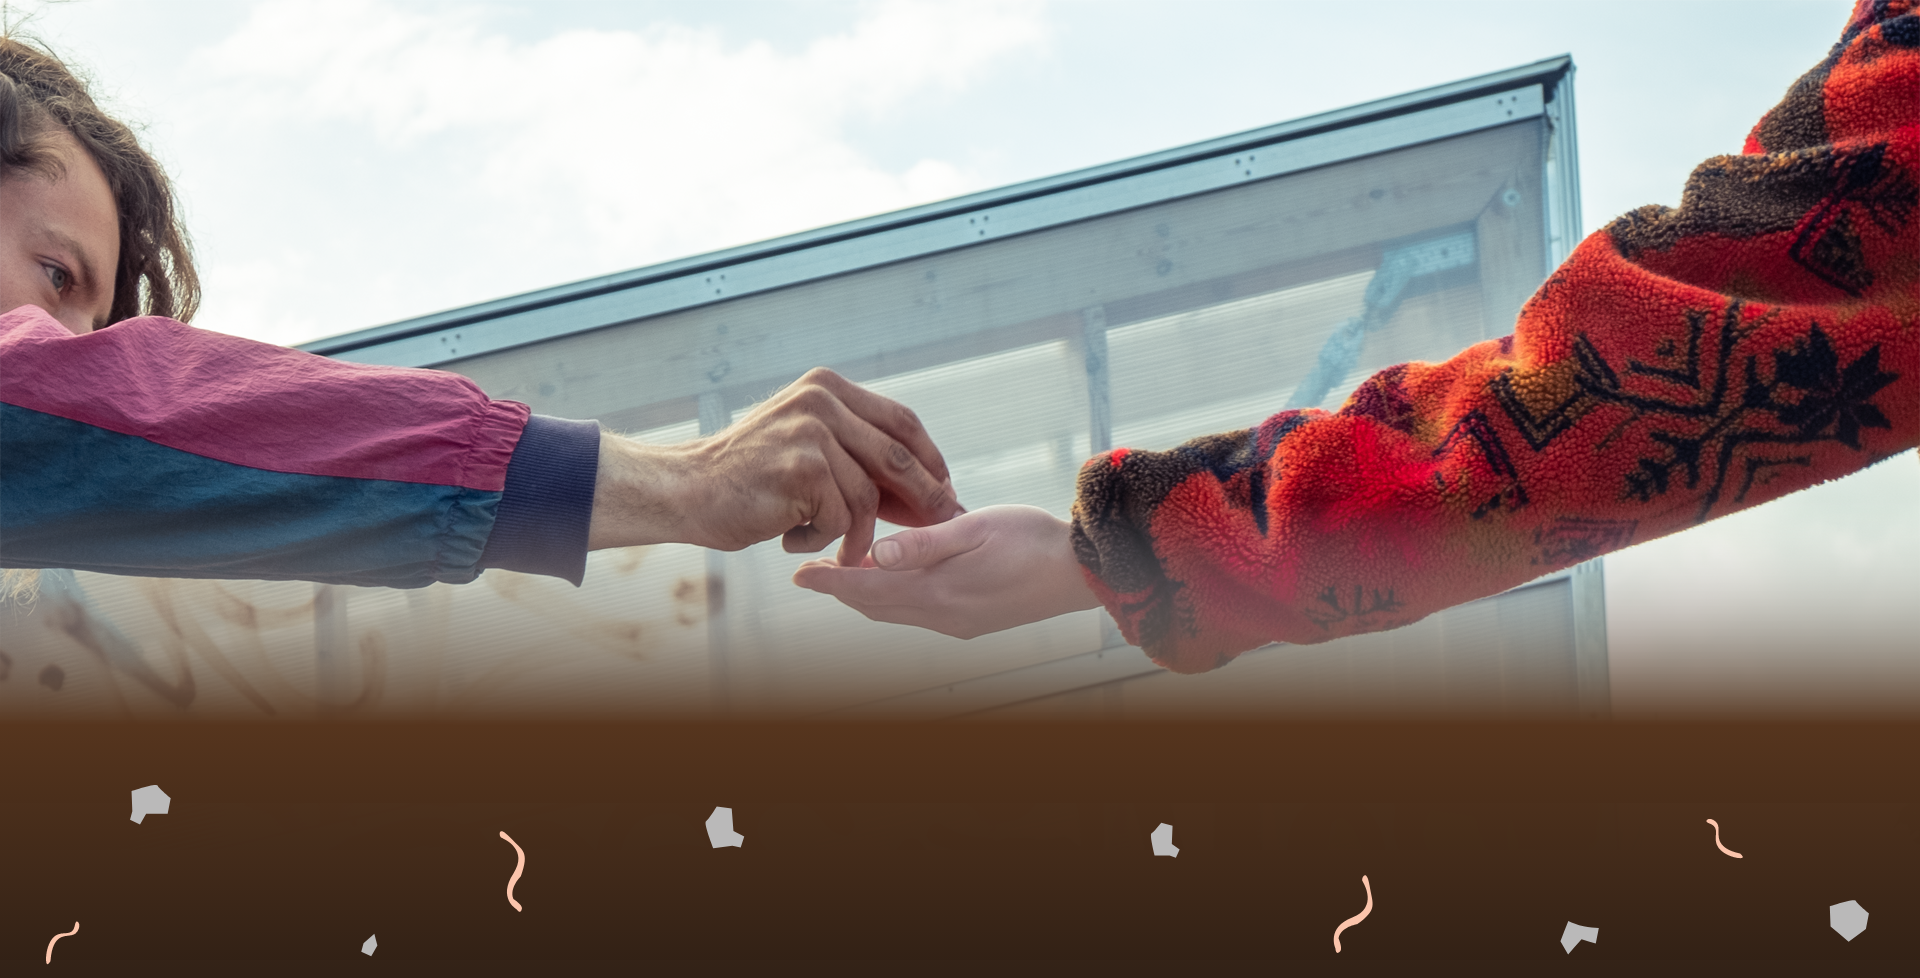
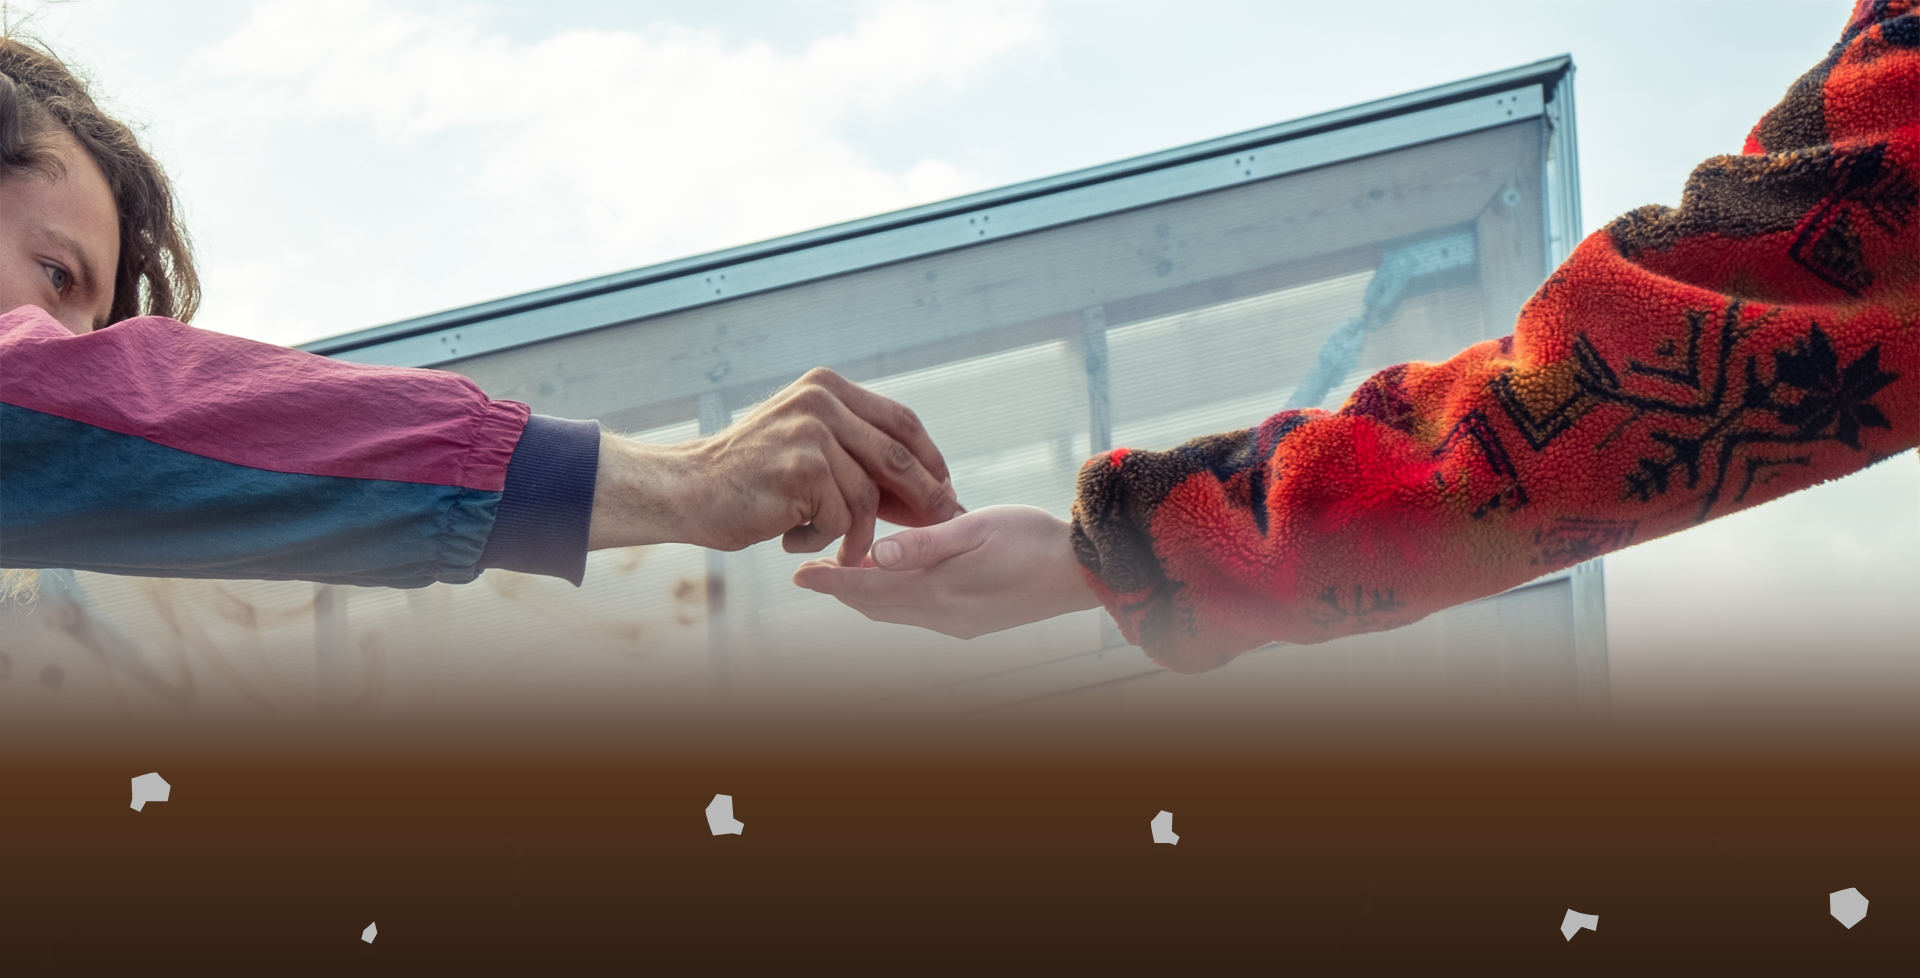
making footer somewhat responsive

diff --git a/style.css b/style.css
@@ -500,7 +500,7 @@ body {
   font-family: 'finalsix', sans-serif;
   font-weight: 300;
   font-style: normal;
-    font-size: 2em;
+    font-size: 1.8em;
     color: #56351E;
     padding-top: 3em;
     margin-left: 15%;
@@ -549,7 +549,7 @@ body {
     left: 0;
     z-index: 2;
     margin-left: 42%;
-    margin-bottom: 5rem;  
+    margin-bottom: 3rem;  
 }
 
 /* a so-me icon inserted using Font Awesome */
@@ -584,18 +584,107 @@ body {
 
 .fa-brands {
     padding: 20px;
-    font-size: 100px;
+    font-size: 4em;
     width: 100px;
     height: 4rem;
     text-align: center;
     text-decoration: none;
-    margin: 5px 2px;
 }
 
 .footer {
     left: 0;
     bottom: 0;
     width: 100%;
+}
+
+/* worms */
+.worm {
+    width: 4%;
+    height: auto;
+    z-index: 10;
+}
+/* making worms interactive when hovering */
+.worm:hover {
+    animation: shake 0.6s;
+}
+
+@keyframes shake {
+    0% {
+        transform: translate(1px, 1px) rotate(0deg);
+    }
+
+    10% {
+        transform: translate(-1px, -2px) rotate(-1deg);
+    }
+
+    20% {
+        transform: translate(-3px, 0px) rotate(1deg);
+    }
+
+    30% {
+        transform: translate(3px, 2px) rotate(0deg);
+    }
+
+    40% {
+        transform: translate(1px, -1px) rotate(1deg);
+    }
+
+    50% {
+        transform: translate(-1px, 2px) rotate(-1deg);
+    }
+
+    60% {
+        transform: translate(-3px, 1px) rotate(0deg);
+    }
+
+    70% {
+        transform: translate(3px, 1px) rotate(-1deg);
+    }
+
+    80% {
+        transform: translate(-1px, -1px) rotate(1deg);
+    }
+
+    90% {
+        transform: translate(1px, 2px) rotate(0deg);
+    }
+
+    100% {
+        transform: translate(1px, -2px) rotate(-1deg);
+    }
+}
+
+
+#worm1 {
+    position: absolute;
+    left: 10%;
+    transform: rotate(100deg);
+    margin-top: -5%;
+    margin-left: -4%;
+}
+
+#worm2 {
+    position: absolute;
+    left: 30%;
+    transform: rotate(40deg);
+    margin-top: -6%;
+    margin-left: -6%;
+}
+
+#worm3 {
+    position: absolute;
+    left: 90%;
+    transform: rotate(70deg);
+    margin-top: -5%;
+    margin-left: -22%;
+}
+
+#worm4 {
+    position: absolute;
+    left: 90%;
+    transform: rotate(40deg);
+    margin-top: -8%;
+    margin-left: -2%;
 }
 
 /* dot navigation bar */
@@ -743,25 +832,6 @@ body {
     bottom: -36px;
   }
   
-  @media only screen and (max-width: 600px) {
-    .gallery-grid {
-      grid-template-columns: 48% 48%;
-      grid-gap: 3rem 4%;
-    }
-  }
-  
-  @media only screen and (max-width: 880px) {
-    .gallery-item .gallery-triangle {
-      border-width: 0 0 60px 60px;
-    }
-    
-    .gallery-triangle::after {
-      font-size: 24px;
-      left: -24px;
-      bottom: -30px;
-    }
-  }
-  
   .popup-bg {
     background: rgba(0, 0, 0, 0.3);
     position: fixed;
@@ -823,16 +893,8 @@ body {
     font-size: 32px;
     line-height: 38px;
     cursor: pointer;
-  }
-  
-  @media only screen and (max-width: 600px) {
-    .popup-container {
-      top: 0;
-      left: 0;
-      right: 0;
-      bottom: 0;
-    }
-     
+  }    
+
     .popup-pic, .popup-pic-container {
       width: 55%;
     }
@@ -843,7 +905,6 @@ body {
         font-weight: 300;
         font-style: normal;
     }
-  }
   
   /*------*/
   
@@ -928,3 +989,67 @@ body {
   }
   
   /* PROJECT GALLERY END */
+
+
+ /* MEDIA QUERIES */
+ @media only screen and (max-width: 1300px) {
+    .footer_title {
+        font-size: 3rem;
+  }
+  .fa-brands {
+    font-size: 3.5em;
+  }
+    .icons_container {
+        margin-left: 40%;
+        margin-bottom: 1.8rem;
+    }
+}
+  @media only screen and (max-width: 880px) {
+    .gallery-item .gallery-triangle {
+      border-width: 0 0 60px 60px;
+    }
+    
+    .gallery-triangle::after {
+      font-size: 24px;
+      left: -24px;
+      bottom: -30px;
+    }
+
+    .footer_title {
+        font-size: 2.8rem;
+        left: 25%;
+    }
+    .fa-brands {
+        font-size: 3em;
+     }
+     .icons_container {
+        margin-left: 37%;
+        margin-bottom: 0.8rem;
+    }
+  }
+
+
+  @media only screen and (max-width: 600px) {
+    .footer_title {
+        font-size: 2.1rem;
+        left: 26%;
+    }
+    .gallery-grid {
+      grid-template-columns: 48% 48%;
+      grid-gap: 3rem 4%;
+    }
+    .popup-container {
+        top: 0;
+        left: 0;
+        right: 0;
+        bottom: 0;
+      }
+      .fa-brands {
+        font-size: 2.5em;
+     }
+     .icons_container {
+         margin-left: 33%;
+         margin-bottom: 0.5rem;
+     }
+
+  }

diff --git a/index.html b/index.html
@@ -8,7 +8,7 @@
     <link rel="stylesheet" href="style.css">
     <link rel="stylesheet" href="https://use.typekit.net/zvj3sro.css">
     <script src="https://kit.fontawesome.com/3910174d34.js" crossorigin="anonymous"></script>
-    <link rel="icon" href="/images/bee.png">
+    <link rel="icon" href="/images/insects/bee.png">
     <script src="script.js" defer></script>
     <title>Rewild Aarhus</title>
 </head>
@@ -80,11 +80,11 @@
 
     <section id="intersection-3" class="section-animation intersection">
     <!-- section explaining biodiversity and presenting the animation-scrolling infographics -->
-        <p class="copy">We have said “biodiversity” many times now but what does it even mean? <br>
+        <p class="copy">We have mentioned “biodiversity” many times now but what does it even mean? <br>
 
             To put it simply, the more species of insects, plants, animals, fungi or even bacteria there are in Aarhus; the more biodiverse it is. <br>
             <br>
-            Why do we need biodiversity? <br>
+            And why do we need biodiversity? <br>
             Biodiversity provides ecosystems that give us oxygen, clean air and water, pollination of plants, pest control, wastewater treatment and many ecosystem services.<br>
             All these are important in making our lives better. <br>
             <br>
@@ -100,7 +100,8 @@
 
         <!-- section with Rewild's projects -->
     <section id="intersection-4" class="section-projects intersection">
-        <p class="copy">With our projects and workshops for the citizens of Aarhus, we educate them to make the city greener. We have a great time with great people too!<br>
+        <p class="copy">With our projects and workshops, we educate people to make their gardens and the city greener. 
+            And we have a great time with great people!<br>
             <br>
             Did we plant a seed of curiosity? <br>
             Take closer look of our work through the project gallery.
@@ -442,7 +443,7 @@
 
     <footer id="intersection-5" class="intersection">
         <div class="footer_container">
-            <div class="footer_title">Reach out to us</div>
+                <div class="footer_title">Reach out to us</div>
             <img class="hands" src="images/footerimg.png" alt="reach_out">
             <!-- Linking SoMe links to the icons -->
                 <div class="icons_container">
@@ -452,8 +453,12 @@
                 </div>
             
         </div>
-        
 
+         <!-- worms -->
+         <img id="worm1" class="worm" src="images/insects/worm.png" alt="worm">
+         <img id="worm2" class="worm" src="images/insects/worm.png" alt="worm">
+         <img id="worm3" class="worm" src="images/insects/worm.png" alt="worm">
+         <img id="worm4" class="worm" src="images/insects/worm.png" alt="worm">
     </footer>
 
     <!-- Our own scripts -->
